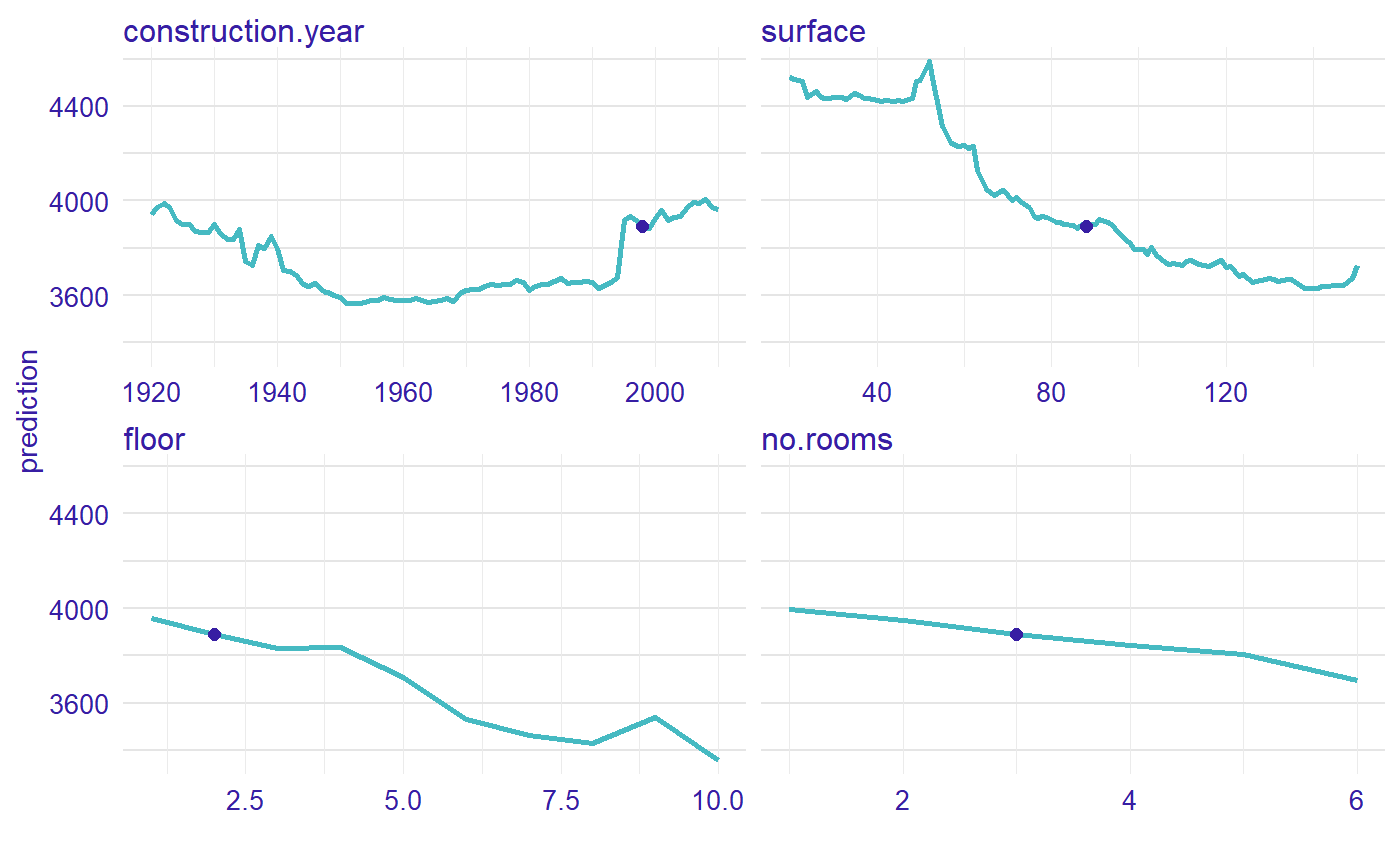
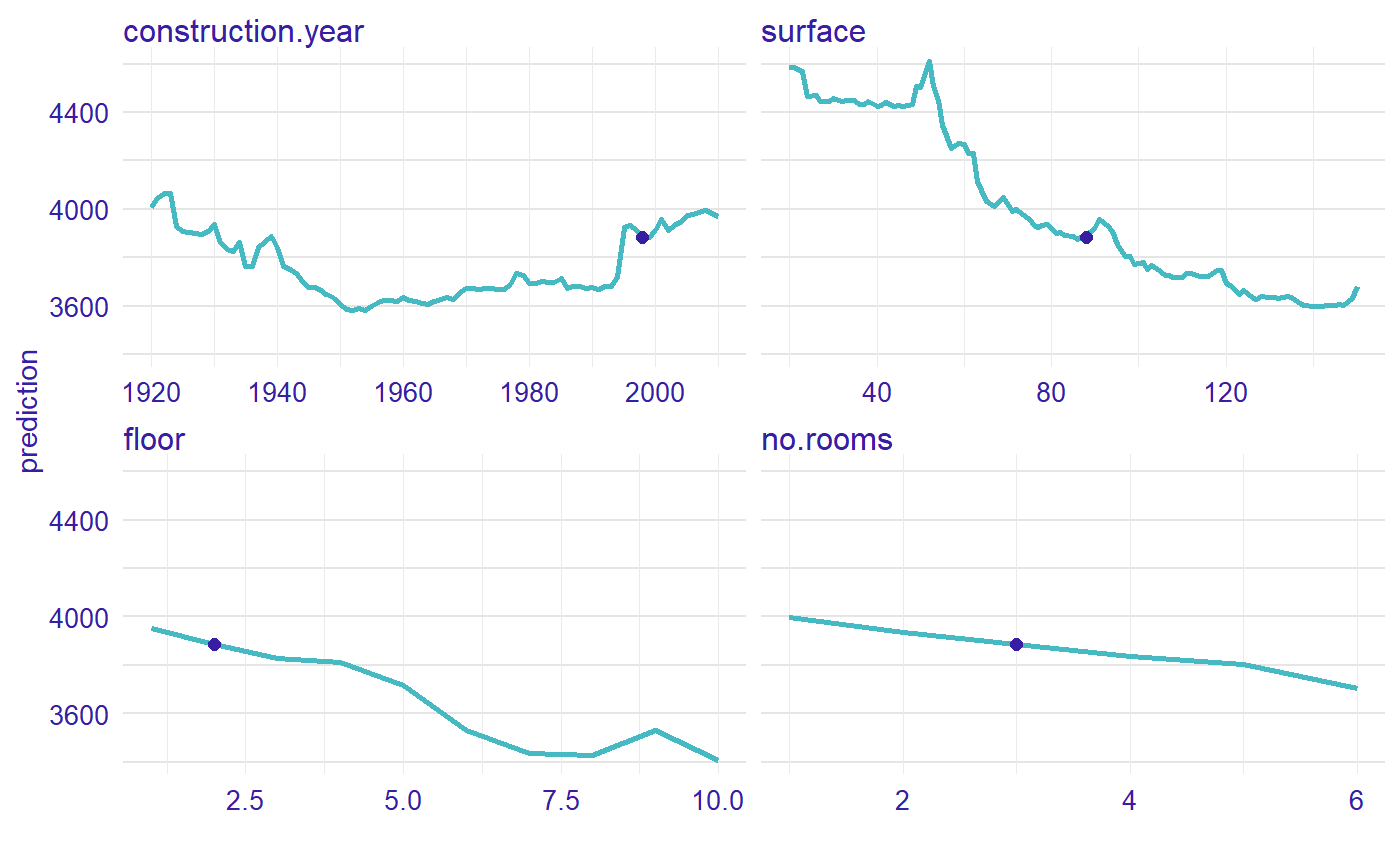
update README

diff --git a/docs/index.html b/docs/index.html
@@ -15,7 +15,7 @@
 <![endif]-->
 </head>
 <body>
-    <div class="container template-home">
+    <div class="container template-article">
       <header><div class="navbar navbar-default navbar-fixed-top navbar-mi2" role="navigation">
   <div class="container">
     <div class="navbar-header">
@@ -62,29 +62,62 @@
 
       
       </header><div class="row">
-  <div class="contents col-md-9">
-    <div id="localvariableimportanceviaoscillations" class="section level1">
-<div class="page-header"><h1 class="hasAnchor">
-<a href="#localvariableimportanceviaoscillations" class="anchor"></a>LocalVariableImportanceViaOscillations</h1></div>
+  <div class="col-md-9 contents">
+    
 
-<p>Local variable importance via oscillations of Ceteris Paribus profiles.</p>
-<p>This package is a tool for calculated variable importance. The measure is based on Ceteris Paribus plot and calculate in eight variants.</p>
-<div id="install" class="section level2">
+    
+    
+<div id="the-localvariableimportanceviaoscillations-package---variable-importance-measure-based-on-ceteris-paribus-profiles" class="section level1">
+<div class="page-header"><h1 class="hasAnchor">
+<a href="#the-localvariableimportanceviaoscillations-package---variable-importance-measure-based-on-ceteris-paribus-profiles" class="anchor"></a>The LocalVariableImportanceViaOscillations package - variable importance measure based on Ceteris Paribus profiles</h1></div>
+<!-- [![Build Status](https://travis-ci.com/kozaka93/LocalVariableImportanceViaOscillations.svg?branch=master)](https://travis-ci.com/kozaka93/LocalVariableImportanceViaOscillations) -->
+<!-- [![codecov](https://codecov.io/gh/kozaka93/LocalVariableImportanceViaOscillations/branch/master/graph/badge.svg)](https://codecov.io/gh/kozaka93/LocalVariableImportanceViaOscillations) -->
+<p>This package is a tool for calculated variable importance. The measure is based on Ceteris Paribus plot and calculated in eight variants.</p>
+<div id="installation" class="section level2">
 <h2 class="hasAnchor">
-<a href="#install" class="anchor"></a>Install</h2>
-<pre class="{r}"><code>install.packages("devtools")
-library(devtools)
-install_github("kozaka93/LocalVariableImportanceViaOscillations")</code></pre>
+<a href="#installation" class="anchor"></a>Installation</h2>
+<div class="sourceCode"><pre class="sourceCode r"><code class="sourceCode r"><span class="kw"><a href="https://www.rdocumentation.org/packages/utils/topics/install.packages">install.packages</a></span>(<span class="st">"devtools"</span>)
+<span class="kw"><a href="https://www.rdocumentation.org/packages/base/topics/library">library</a></span>(devtools)
+<span class="kw">install_github</span>(<span class="st">"kozaka93/LocalVariableImportanceViaOscillations"</span>)</code></pre></div>
+</div>
+<div id="intuition" class="section level2">
+<h2 class="hasAnchor">
+<a href="#intuition" class="anchor"></a>Intuition</h2>
+<p>Ceteris Paribus is a latin pharse meaning „other things held constant” or „all else unchanged”. Ceteris Paribus Plots are designed to present model response around a single point in the feature space. Shows how the model response depends on changes in a single input variable, keeping all other variables uncharged. They are working for any Machine Learning model and allow for model comparisons to better understend how a black model is worinkg.</p>
+<p>Let consider a example</p>
+<div class="sourceCode"><pre class="sourceCode r"><code class="sourceCode r"><span class="kw"><a href="https://www.rdocumentation.org/packages/base/topics/library">library</a></span>(LocalVariableImportanceViaOscillations)
+<span class="kw"><a href="https://www.rdocumentation.org/packages/base/topics/library">library</a></span>(DALEX)
+<span class="kw"><a href="https://www.rdocumentation.org/packages/base/topics/library">library</a></span>(randomForest)
+<span class="kw"><a href="https://www.rdocumentation.org/packages/base/topics/library">library</a></span>(ingredients)
+<span class="co">#data from DALEX package </span>
+<span class="kw"><a href="https://www.rdocumentation.org/packages/utils/topics/data">data</a></span>(apartments)
+<span class="co">#model </span>
+apartments_rf_model &lt;-<span class="st"> </span><span class="kw">randomForest</span>(m2.price <span class="op">~</span><span class="st"> </span>construction.year <span class="op">+</span><span class="st"> </span>surface <span class="op">+</span><span class="st"> </span>floor <span class="op">+</span>
+<span class="st">                                      </span>no.rooms, <span class="dt">data =</span> apartments)
+explainer_rf &lt;-<span class="st"> </span><span class="kw">explain</span>(apartments_rf_model,
+                        <span class="dt">data =</span> apartmentsTest[,<span class="dv">2</span><span class="op">:</span><span class="dv">5</span>], <span class="dt">y =</span> apartmentsTest<span class="op">$</span>m2.price)
+<span class="co">#new observation</span>
+new_apartment &lt;-<span class="st"> </span><span class="kw"><a href="https://www.rdocumentation.org/packages/base/topics/data.frame">data.frame</a></span>(<span class="dt">construction.year =</span> <span class="dv">1998</span>, <span class="dt">surface =</span> <span class="dv">88</span>, <span class="dt">floor =</span> 2L, <span class="dt">no.rooms =</span> <span class="dv">3</span>)
+cp &lt;-<span class="st"> </span>ingredients<span class="op">::</span><span class="kw"><a href="https://www.rdocumentation.org/packages/ingredients/topics/ceteris_paribus">ceteris_paribus</a></span>(explainer_rf, new_apartment)
+
+<span class="co">#ceteris paribus plot</span>
+<span class="kw"><a href="https://www.rdocumentation.org/packages/graphics/topics/plot">plot</a></span>(cp) <span class="op">+</span><span class="st"> </span><span class="kw">show_observations</span>(cp)</code></pre></div>
+<p><img src="index_files/figure-html/unnamed-chunk-3-1.png" width="700"></p>
+<p>The value of the colored area is our measure, which we can calculated in eight variants. <img src="index_files/figure-html/unnamed-chunk-4-1.png" width="700"></p>
+<div class="sourceCode"><pre class="sourceCode r"><code class="sourceCode r"><span class="co">#calculate measure with all parameter are true</span>
+measure &lt;-<span class="st"> </span><span class="kw"><a href="reference/LocalVariableImportance.html">LocalVariableImportance</a></span>(cp, apartments, <span class="dt">absolute_deviation =</span> <span class="ot">TRUE</span>, <span class="dt">point =</span> <span class="ot">TRUE</span>, <span class="dt">density =</span> <span class="ot">TRUE</span>)</code></pre></div>
+<pre><code>## Results: 
+## construction.year: 197.031570424687
+##  surface: 308.757474818382
+##  floor: 242.119426015659
+##  no.rooms: 103.004172468187</code></pre>
+<div class="sourceCode"><pre class="sourceCode r"><code class="sourceCode r"><span class="kw"><a href="https://www.rdocumentation.org/packages/graphics/topics/plot">plot</a></span>(measure)</code></pre></div>
+<p><img src="index_files/figure-html/unnamed-chunk-5-1.png" width="700"></p>
 </div>
 </div>
   </div>
 
-  <div class="col-md-3" id="sidebar">
-  	<div class="sidebar-logo">
-	 <p>
-		This package is developed by the <a href="http://mi2.mini.pw.edu.pl">MI^2 group</a>. MI^2 (pronounce: Am I square?) is a group of mathematicians and computer scientists that love to play with data. We create tools, do consulting and share our positive attitude. 
-	 </p>
-	</div>
+  <div class="col-md-3 hidden-xs hidden-sm" id="sidebar">
     <div class="license">
 <h2>License</h2>
 <ul class="list-unstyled">
@@ -98,13 +131,8 @@ install_github("kozaka93/LocalVariableImportanceViaOscillations")</code></pre>
 </ul>
 </div>
 
-  <div class="dev-status">
-<h2>Dev status</h2>
-<ul class="list-unstyled">
-<li><a href="https://travis-ci.com/kozaka93/LocalVariableImportanceViaOscillations"><img src="https://travis-ci.com/kozaka93/LocalVariableImportanceViaOscillations.svg?branch=master" alt="Build Status"></a></li>
-</ul>
-</div>
-</div>
+      </div>
+
 </div>
 
 

diff --git a/docs/articles/measure.html b/docs/articles/measure.html
@@ -67,7 +67,7 @@
       <h1>Example with random forest model</h1>
                         <h4 class="author">Anna Kozak</h4>
             
-            <h4 class="date">2019-05-19</h4>
+            <h4 class="date">2019-05-22</h4>
       
       
       <div class="hidden name"><code>measure.Rmd</code></div>
@@ -109,10 +109,10 @@ cp &lt;-<span class="st"> </span>ingredients<span class="op">::</span><span clas
 <p>Now, we calculated a measure of local variable importance via oscillation based on Ceteris Paribus plot.</p>
 <div class="sourceCode"><pre class="sourceCode r"><code class="sourceCode r">measure &lt;-<span class="st"> </span><span class="kw"><a href="../reference/LocalVariableImportance.html">LocalVariableImportance</a></span>(cp, apartments[,<span class="dv">2</span><span class="op">:</span><span class="dv">5</span>], <span class="dt">absolute_deviation =</span> <span class="ot">TRUE</span>, <span class="dt">point =</span> <span class="ot">TRUE</span>, <span class="dt">density =</span> <span class="ot">TRUE</span>)
 <span class="co">#&gt; Results: </span>
-<span class="co">#&gt; construction.year: 221.523022710416</span>
-<span class="co">#&gt;  surface: 287.786027086219</span>
-<span class="co">#&gt;  floor: 257.932620939541</span>
-<span class="co">#&gt;  no.rooms: 84.9031490125768</span></code></pre></div>
+<span class="co">#&gt; construction.year: 190.910052800922</span>
+<span class="co">#&gt;  surface: 304.967582402817</span>
+<span class="co">#&gt;  floor: 252.819430258737</span>
+<span class="co">#&gt;  no.rooms: 83.9078913915707</span></code></pre></div>
 <div class="sourceCode"><pre class="sourceCode r"><code class="sourceCode r"><span class="kw"><a href="https://www.rdocumentation.org/packages/graphics/topics/plot">plot</a></span>(measure)</code></pre></div>
 <p><img src="measure_files/figure-html/unnamed-chunk-8-1.png" width="700"></p>
 </div>

diff --git a/README.md b/README.md
@@ -1,21 +1,64 @@
-# LocalVariableImportanceViaOscillations
 
+The LocalVariableImportanceViaOscillations package - variable importance measure based on Ceteris Paribus profiles
+==================================================================================================================
 
-[![Build Status](https://travis-ci.com/kozaka93/LocalVariableImportanceViaOscillations.svg?branch=master)](https://travis-ci.com/kozaka93/LocalVariableImportanceViaOscillations)
+<!-- [![Build Status](https://travis-ci.com/kozaka93/LocalVariableImportanceViaOscillations.svg?branch=master)](https://travis-ci.com/kozaka93/LocalVariableImportanceViaOscillations) -->
+<!-- [![codecov](https://codecov.io/gh/kozaka93/LocalVariableImportanceViaOscillations/branch/master/graph/badge.svg)](https://codecov.io/gh/kozaka93/LocalVariableImportanceViaOscillations) -->
+This package is a tool for calculated variable importance. The measure is based on Ceteris Paribus plot and calculated in eight variants.
 
+Installation
+------------
 
-[![codecov](https://codecov.io/gh/kozaka93/LocalVariableImportanceViaOscillations/branch/master/graph/badge.svg)](https://codecov.io/gh/kozaka93/LocalVariableImportanceViaOscillations)
-
-
-Local variable importance via oscillations of Ceteris Paribus profiles.
-
-This package is a tool for calculated variable importance. The measure is based on Ceteris Paribus plot and calculate in eight variants.
-
-## Install 
-```{r}
-install.packages("devtools")
-library(devtools)
-install_github("kozaka93/LocalVariableImportanceViaOscillations")
+``` r
+# install.packages("devtools")
+# library(devtools)
+# install_github("kozaka93/LocalVariableImportanceViaOscillations")
 ```
 
+Intuition
+---------
 
+Ceteris Paribus is a latin pharse meaning „other things held constant” or „all else unchanged”. Ceteris Paribus Plots are designed to present model response around a single point in the feature space. Shows how the model response depends on changes in a single input variable, keeping all other variables uncharged. They are working for any Machine Learning model and allow for model comparisons to better understend how a black model is worinkg.
+
+Let consider a example
+
+``` r
+library(LocalVariableImportanceViaOscillations)
+library(DALEX)
+library(randomForest)
+library(ingredients)
+#data from DALEX package 
+data(apartments)
+#model 
+apartments_rf_model <- randomForest(m2.price ~ construction.year + surface + floor +
+                                      no.rooms, data = apartments)
+explainer_rf <- explain(apartments_rf_model,
+                        data = apartmentsTest[,2:5], y = apartmentsTest$m2.price)
+#new observation
+new_apartment <- data.frame(construction.year = 1998, surface = 88, floor = 2L, no.rooms = 3)
+cp <- ingredients::ceteris_paribus(explainer_rf, new_apartment)
+
+#ceteris paribus plot
+plot(cp) + show_observations(cp)
+```
+
+![](README_files/figure-markdown_github/unnamed-chunk-3-1.png)
+
+The value of the colored area is our measure, which we can calculated in eight variants. ![](README_files/figure-markdown_github/unnamed-chunk-4-1.png)
+
+``` r
+#calculate measure with all parameter are true
+measure <- LocalVariableImportance(cp, apartments, absolute_deviation = TRUE, point = TRUE, density = TRUE)
+```
+
+    ## Results: 
+    ## construction.year: 212.039089035232
+    ##  surface: 299.755610860514
+    ##  floor: 249.517683792673
+    ##  no.rooms: 102.532756041815
+
+``` r
+plot(measure)
+```
+
+![](README_files/figure-markdown_github/unnamed-chunk-5-1.png)
